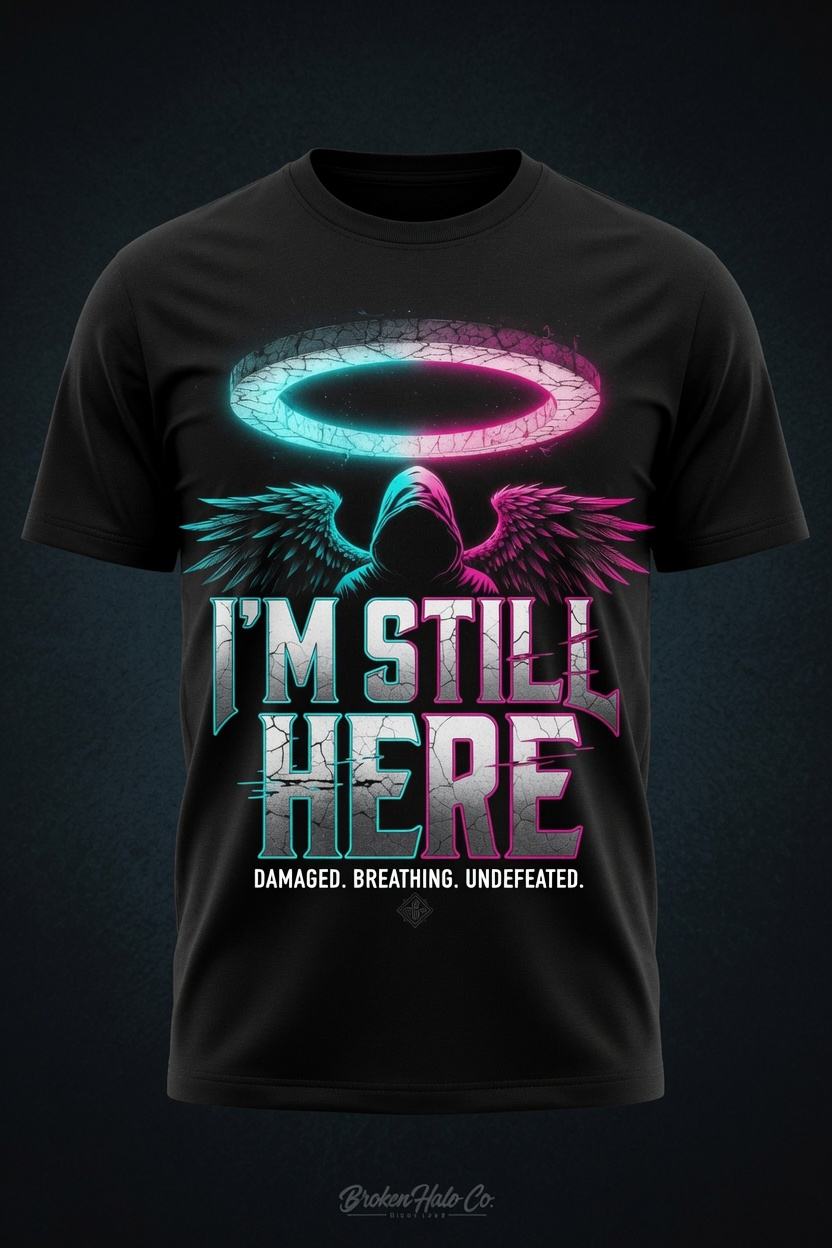
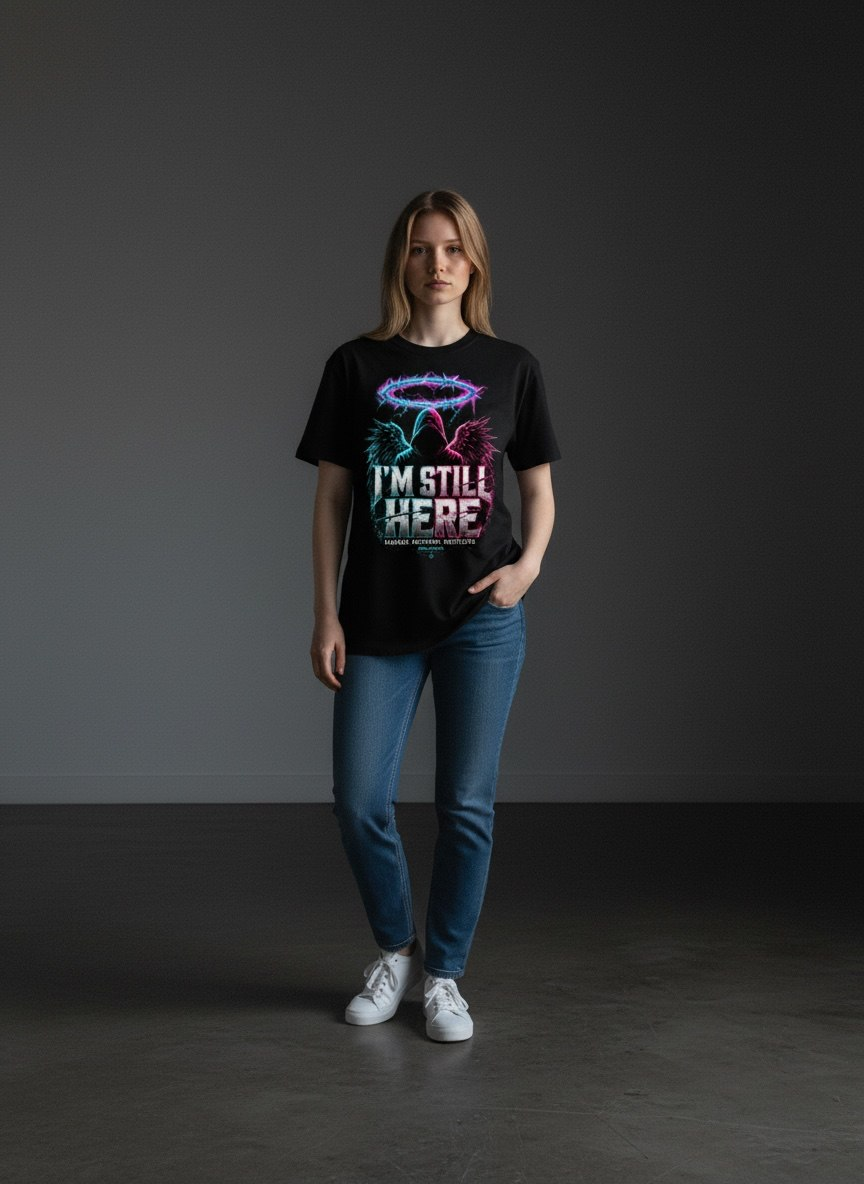
Update book cover (neon web final) and first-drop product photos

diff --git a/index.html b/index.html
@@ -64,7 +64,7 @@
           <div class="mt-7 flex flex-col justify-center gap-3 sm:flex-row lg:justify-start"><a id="heroAmazonCta" href="#" target="_blank" rel="noopener noreferrer" class="amazon-cta hidden inline-flex justify-center bg-[#ff2bbd] px-8 py-4 font-display text-sm font-bold tracking-[.22em] text-black transition hover:bg-white">PREORDER ON AMAZON</a><a href="#tools" class="inline-flex justify-center bg-white px-8 py-4 font-display text-sm font-bold tracking-[.22em] text-black transition hover:bg-[#00f0ff]">GET FREE WORKSHEET</a><a href="#drop" class="inline-flex justify-center border border-[#ff2bbd] px-8 py-4 font-display text-sm font-bold tracking-[.22em] text-[#ff2bbd] transition hover:bg-[#ff2bbd] hover:text-black">SEE FIRST DROP</a></div>
           <div class="mt-8 grid max-w-lg grid-cols-4 gap-2 sm:gap-3 lg:mx-0"><div class="rounded-2xl border border-white/10 bg-black/45 p-3 text-center"><div id="days" class="count-box font-display text-3xl font-bold sm:text-4xl">00</div><div class="mt-1 text-[9px] tracking-[.25em] text-white/40">DAYS</div></div><div class="rounded-2xl border border-white/10 bg-black/45 p-3 text-center"><div id="hours" class="count-box font-display text-3xl font-bold sm:text-4xl">00</div><div class="mt-1 text-[9px] tracking-[.25em] text-white/40">HRS</div></div><div class="rounded-2xl border border-white/10 bg-black/45 p-3 text-center"><div id="minutes" class="count-box font-display text-3xl font-bold sm:text-4xl">00</div><div class="mt-1 text-[9px] tracking-[.25em] text-white/40">MIN</div></div><div class="rounded-2xl border border-white/10 bg-black/45 p-3 text-center"><div id="seconds" class="count-box font-display text-3xl font-bold sm:text-4xl">00</div><div class="mt-1 text-[9px] tracking-[.25em] text-white/40">SEC</div></div></div>
         </div>
-        <div class="mx-auto w-full max-w-md lg:max-w-lg"><div class="relative rounded-[2rem] border border-white/10 bg-zinc-950/80 p-5 shadow-2xl"><div class="absolute -inset-px -z-10 rounded-[2rem] bg-gradient-to-br from-[#00f0ff]/30 via-transparent to-[#ff2bbd]/25 blur-xl"></div><div class="rounded-[1.5rem] border border-white/10 bg-black p-4" id="heroCoverWrap"><img id="heroCoverImage" src="book-cover-front.jpg?v=20260715kdp" alt="Broken But Breathing book cover by Eric Lee Sanders" class="w-full rounded-[1.2rem] border border-white/10 shadow-2xl"/><p id="heroBookPlaceholder" class="mt-4 text-center text-xs tracking-[.18em] text-white/35">AMAZON PREORDER OPENS SOON</p><a id="heroCoverCta" href="#" target="_blank" rel="noopener noreferrer" class="amazon-cta mt-4 hidden w-full justify-center rounded-xl border border-[#ff2bbd] px-4 py-3 font-display text-xs font-bold tracking-[.2em] text-[#ff2bbd] transition hover:bg-[#ff2bbd] hover:text-black inline-flex">PREORDER ON AMAZON</a></div></div></div>
+        <div class="mx-auto w-full max-w-md lg:max-w-lg"><div class="relative rounded-[2rem] border border-white/10 bg-zinc-950/80 p-5 shadow-2xl"><div class="absolute -inset-px -z-10 rounded-[2rem] bg-gradient-to-br from-[#00f0ff]/30 via-transparent to-[#ff2bbd]/25 blur-xl"></div><div class="rounded-[1.5rem] border border-white/10 bg-black p-4" id="heroCoverWrap"><img id="heroCoverImage" src="book-cover-front.jpg?v=20260716neon" alt="Broken But Breathing book cover by Eric Lee Sanders" class="w-full rounded-[1.2rem] border border-white/10 shadow-2xl"/><p id="heroBookPlaceholder" class="mt-4 text-center text-xs tracking-[.18em] text-white/35">AMAZON PREORDER OPENS SOON</p><a id="heroCoverCta" href="#" target="_blank" rel="noopener noreferrer" class="amazon-cta mt-4 hidden w-full justify-center rounded-xl border border-[#ff2bbd] px-4 py-3 font-display text-xs font-bold tracking-[.2em] text-[#ff2bbd] transition hover:bg-[#ff2bbd] hover:text-black inline-flex">PREORDER ON AMAZON</a></div></div></div>
       </div>
     </section>
 
@@ -92,15 +92,15 @@
       </div>
     </section>
 
-    <section id="book" class="reveal px-5 py-20 sm:px-6 md:py-28"><div class="mx-auto grid max-w-6xl gap-12 lg:grid-cols-[.72fr_1.28fr] lg:items-center"><div class="mx-auto max-w-sm rounded-[1.6rem] border border-white/10 bg-black/50 p-3 shadow-2xl lg:mx-0" id="bookCoverWrap"><img id="bookCoverImage" src="book-cover-front.jpg?v=20260715kdp" alt="Broken But Breathing front cover" class="rounded-[1.15rem]" loading="lazy"/></div><div class="space-y-6 text-lg leading-relaxed text-white/70"><div><div class="mb-3 text-xs font-bold tracking-[.3em] text-[#00f0ff]">THE BOOK</div><h2 class="font-display text-5xl font-bold leading-[.92] tracking-[-.07em] sm:text-6xl">A raw memoir about the identity addiction builds.</h2></div><p><strong class="text-white">Broken But Breathing</strong> is not a clean redemption arc. It is a direct look at addiction, shame, relapse, incarceration, leadership, public failure, and the long fight to stop confusing survival patterns with identity.</p><p>The cover hits the same visual world as the brand: cracked halo, glass, cyan/pink damage, and the book title carrying weight before anyone reads page one.</p><div class="grid gap-3 pt-2 sm:grid-cols-2"><div class="rounded-2xl border border-white/10 bg-black/35 p-5"><div class="text-[10px] font-bold tracking-[.28em] text-white/40">ISBN</div><div class="mt-1 font-mono text-sm text-white">979-8-2579-5965-3</div></div><div class="rounded-2xl border border-white/10 bg-black/35 p-5"><div class="text-[10px] font-bold tracking-[.28em] text-white/40">LAUNCH</div><div class="mt-1 font-mono text-sm text-white">July 23, 2026</div></div></div><p id="bookSectionPlaceholder" class="text-sm tracking-[.14em] text-white/40">Amazon preorder link goes live as soon as the listing is up.</p><div class="flex flex-col gap-3 pt-1 sm:flex-row sm:flex-wrap"><a id="bookSectionAmazon" href="#" target="_blank" rel="noopener noreferrer" class="amazon-cta hidden inline-flex w-full justify-center bg-[#ff2bbd] px-8 py-4 font-display text-sm font-bold tracking-[.22em] text-black transition hover:bg-white sm:w-auto">PREORDER ON AMAZON</a><a href="#tools" class="inline-flex w-full justify-center border border-white/70 px-8 py-4 font-display text-sm font-bold tracking-[.22em] text-white transition hover:bg-white hover:text-black sm:w-auto">GET THE FREE WORKSHEET</a></div></div></div></section>
+    <section id="book" class="reveal px-5 py-20 sm:px-6 md:py-28"><div class="mx-auto grid max-w-6xl gap-12 lg:grid-cols-[.72fr_1.28fr] lg:items-center"><div class="mx-auto max-w-sm rounded-[1.6rem] border border-white/10 bg-black/50 p-3 shadow-2xl lg:mx-0" id="bookCoverWrap"><img id="bookCoverImage" src="book-cover-front.jpg?v=20260716neon" alt="Broken But Breathing front cover" class="rounded-[1.15rem]" loading="lazy"/></div><div class="space-y-6 text-lg leading-relaxed text-white/70"><div><div class="mb-3 text-xs font-bold tracking-[.3em] text-[#00f0ff]">THE BOOK</div><h2 class="font-display text-5xl font-bold leading-[.92] tracking-[-.07em] sm:text-6xl">A raw memoir about the identity addiction builds.</h2></div><p><strong class="text-white">Broken But Breathing</strong> is not a clean redemption arc. It is a direct look at addiction, shame, relapse, incarceration, leadership, public failure, and the long fight to stop confusing survival patterns with identity.</p><p>The cover hits the same visual world as the brand: cracked halo, glass, cyan/pink damage, and the book title carrying weight before anyone reads page one.</p><div class="grid gap-3 pt-2 sm:grid-cols-2"><div class="rounded-2xl border border-white/10 bg-black/35 p-5"><div class="text-[10px] font-bold tracking-[.28em] text-white/40">ISBN</div><div class="mt-1 font-mono text-sm text-white">979-8-2579-5965-3</div></div><div class="rounded-2xl border border-white/10 bg-black/35 p-5"><div class="text-[10px] font-bold tracking-[.28em] text-white/40">LAUNCH</div><div class="mt-1 font-mono text-sm text-white">July 23, 2026</div></div></div><p id="bookSectionPlaceholder" class="text-sm tracking-[.14em] text-white/40">Amazon preorder link goes live as soon as the listing is up.</p><div class="flex flex-col gap-3 pt-1 sm:flex-row sm:flex-wrap"><a id="bookSectionAmazon" href="#" target="_blank" rel="noopener noreferrer" class="amazon-cta hidden inline-flex w-full justify-center bg-[#ff2bbd] px-8 py-4 font-display text-sm font-bold tracking-[.22em] text-black transition hover:bg-white sm:w-auto">PREORDER ON AMAZON</a><a href="#tools" class="inline-flex w-full justify-center border border-white/70 px-8 py-4 font-display text-sm font-bold tracking-[.22em] text-white transition hover:bg-white hover:text-black sm:w-auto">GET THE FREE WORKSHEET</a></div></div></div></section>
 
     <section id="drop" class="reveal border-y border-white/10 bg-zinc-950/70 px-5 py-20 sm:px-6 md:py-24"><div class="mx-auto max-w-7xl"><div class="mb-12 text-center"><div class="mb-3 text-xs font-bold tracking-[.3em] text-[#ff2bbd]">DAMAGE WITH DISCIPLINE</div><h2 class="font-display text-5xl font-bold leading-[.92] tracking-[-.07em] sm:text-6xl">First drop: wearable proof.</h2><p class="mx-auto mt-5 max-w-2xl text-base leading-relaxed text-white/60">Not merch just to have merch. These pieces carry the actual Broken Halo language: sober, still here, broken, breathing, dissociated, spite-fueled, and dangerous to the old patterns. Prices shown. Shop opens on Shopify (password until launch unlock).</p><p class="mt-4"><a id="shopFirstDropCta" href="https://shop.thebrokenhaloco.com/collections/first-drop" class="inline-flex border border-[#00f0ff] px-6 py-3 font-display text-xs font-bold tracking-[.22em] text-[#00f0ff] transition hover:bg-[#00f0ff] hover:text-black">SHOP FIRST DROP ON SHOPIFY →</a></p></div><div class="grid gap-5 sm:grid-cols-2 lg:grid-cols-3">
-      <article class="media-card card-hover rounded-[1.7rem] border border-white/10 bg-black/45 p-4" data-shop-key="im-still-here"><div class="mb-5 overflow-hidden rounded-[1.25rem] border border-white/10 bg-[#050507]"><img src="drop-im-still-here.jpg?v=20260625a" alt="I'm Still Here t-shirt mockup by Broken Halo Co." class="aspect-square w-full object-cover" loading="lazy"/></div><div class="px-1 pb-2"><div class="text-[10px] font-bold tracking-[.25em] text-[#00f0ff]">LEAD PIECE</div><h3 class="mt-2 font-display text-3xl font-bold tracking-[-.06em]">I'm Still Here</h3><p class="shop-price mt-2 font-display text-lg font-bold tracking-wide text-[#00f0ff]">$54</p><p class="mt-3 text-sm leading-relaxed text-white/58">Simple, heavy, and hard to argue with. Survival without turning it into a speech.</p><a href="https://shop.thebrokenhaloco.com/products/im-still-here-tee" class="shop-product-link mt-6 inline-flex text-xs font-bold tracking-[.22em] text-[#00f0ff]">SHOP THIS PIECE →</a></div></article>
-      <article class="media-card card-hover rounded-[1.7rem] border border-white/10 bg-black/45 p-4" data-shop-key="broken-but-breathing"><div class="mb-5 overflow-hidden rounded-[1.25rem] border border-white/10 bg-[#050507]"><img src="drop-broken-but-breathing.jpg?v=20260625a" alt="Broken But Breathing t-shirt mockup by Broken Halo Co." class="aspect-square w-full object-cover" loading="lazy"/></div><div class="px-1 pb-2"><div class="text-[10px] font-bold tracking-[.25em] text-white/45">BOOK TIE-IN</div><h3 class="mt-2 font-display text-3xl font-bold tracking-[-.06em]">Broken But Breathing</h3><p class="shop-price mt-2 font-display text-lg font-bold tracking-wide text-[#00f0ff]">$54</p><p class="mt-3 text-sm leading-relaxed text-white/58">The book title as a statement piece. Still broken. Still breathing. Still not done.</p><a href="https://shop.thebrokenhaloco.com/products/broken-but-breathing-tee" class="shop-product-link mt-6 inline-flex text-xs font-bold tracking-[.22em] text-white">SHOP THIS PIECE →</a></div></article>
-      <article class="media-card card-hover rounded-[1.7rem] border border-white/10 bg-black/45 p-4" data-shop-key="sober-not-soft"><div class="mb-5 overflow-hidden rounded-[1.25rem] border border-white/10 bg-[#050507]"><img src="drop-sober-not-soft.jpg?v=20260625a" alt="Sober Not Soft t-shirt mockup by Broken Halo Co." class="aspect-square w-full object-cover" loading="lazy"/></div><div class="px-1 pb-2"><div class="text-[10px] font-bold tracking-[.25em] text-[#ff2bbd]">FIRST DROP</div><h3 class="mt-2 font-display text-3xl font-bold tracking-[-.06em]">Sober Not Soft</h3><p class="shop-price mt-2 font-display text-lg font-bold tracking-wide text-[#00f0ff]">$46</p><p class="mt-3 text-sm leading-relaxed text-white/58">Recovery does not make you fragile. It makes you dangerous to the old patterns that used to run you.</p><a href="https://shop.thebrokenhaloco.com/products/sober-not-soft-tee" class="shop-product-link mt-6 inline-flex text-xs font-bold tracking-[.22em] text-[#ff2bbd]">SHOP THIS PIECE →</a></div></article>
-      <article class="media-card card-hover rounded-[1.7rem] border border-white/10 bg-black/45 p-4" data-shop-key="hope-dealer"><div class="mb-5 overflow-hidden rounded-[1.25rem] border border-white/10 bg-[#050507]"><img src="drop-hope-dealer.jpg?v=20260625a" alt="Hope Dealer t-shirt mockup by Broken Halo Co." class="aspect-square w-full object-cover" loading="lazy"/></div><div class="px-1 pb-2"><div class="text-[10px] font-bold tracking-[.25em] text-[#00f0ff]">LIMITED</div><h3 class="mt-2 font-display text-3xl font-bold tracking-[-.06em]">Hope Dealer</h3><p class="shop-price mt-2 font-display text-lg font-bold tracking-wide text-[#00f0ff]">$46</p><p class="mt-3 text-sm leading-relaxed text-white/58">Dark, loud, and on-brand. Hope without making it soft or corny.</p><a href="https://shop.thebrokenhaloco.com/products/hope-dealer-tee" class="shop-product-link mt-6 inline-flex text-xs font-bold tracking-[.22em] text-[#00f0ff]">SHOP THIS PIECE →</a></div></article>
-      <article class="media-card card-hover rounded-[1.7rem] border border-white/10 bg-black/45 p-4" data-shop-key="dissociated"><div class="mb-5 overflow-hidden rounded-[1.25rem] border border-white/10 bg-[#050507]"><img src="drop-dissociated.jpg?v=20260625a" alt="I Came I Saw I Dissociated t-shirt mockup by Broken Halo Co." class="aspect-square w-full object-cover" loading="lazy"/></div><div class="px-1 pb-2"><div class="text-[10px] font-bold tracking-[.25em] text-[#ff2bbd]">DARK HUMOR</div><h3 class="mt-2 font-display text-3xl font-bold tracking-[-.06em]">I Came. I Saw. I Dissociated.</h3><p class="shop-price mt-2 font-display text-lg font-bold tracking-wide text-[#00f0ff]">$36</p><p class="mt-3 text-sm leading-relaxed text-white/58">Dark humor for the ones who went through it and still know exactly what the room felt like.</p><a href="https://shop.thebrokenhaloco.com/products/i-came-i-saw-i-dissociated-tee" class="shop-product-link mt-6 inline-flex text-xs font-bold tracking-[.22em] text-[#ff2bbd]">SHOP THIS PIECE →</a></div></article>
-      <article class="media-card card-hover rounded-[1.7rem] border border-white/10 bg-black/45 p-4" data-shop-key="powered-by-spite"><div class="mb-5 overflow-hidden rounded-[1.25rem] border border-white/10 bg-[#050507]"><img src="drop-powered-by-spite.jpg?v=20260712b" alt="Powered By Spite design by Broken Halo Co." class="aspect-square w-full object-cover" loading="lazy"/></div><div class="px-1 pb-2"><div class="text-[10px] font-bold tracking-[.25em] text-[#ff2bbd]">DARK FUEL</div><h3 class="mt-2 font-display text-3xl font-bold tracking-[-.06em]">Powered By Spite</h3><p class="shop-price mt-2 font-display text-lg font-bold tracking-wide text-[#00f0ff]">$36</p><p class="mt-3 text-sm leading-relaxed text-white/58">Not positive vibes. Petty, precise, disciplined rage converted into motion — and steered. This is a graphic tee.</p><a href="https://shop.thebrokenhaloco.com/products/powered-by-spite" class="shop-product-link mt-6 inline-flex text-xs font-bold tracking-[.22em] text-[#ff2bbd]">SHOP THIS PIECE →</a></div></article>
+      <article class="media-card card-hover rounded-[1.7rem] border border-white/10 bg-black/45 p-4" data-shop-key="im-still-here"><div class="mb-5 overflow-hidden rounded-[1.25rem] border border-white/10 bg-[#050507]"><img src="drop-im-still-here.jpg?v=20260716" alt="I'm Still Here t-shirt mockup by Broken Halo Co." class="aspect-square w-full object-cover" loading="lazy"/></div><div class="px-1 pb-2"><div class="text-[10px] font-bold tracking-[.25em] text-[#00f0ff]">LEAD PIECE</div><h3 class="mt-2 font-display text-3xl font-bold tracking-[-.06em]">I'm Still Here</h3><p class="shop-price mt-2 font-display text-lg font-bold tracking-wide text-[#00f0ff]">$54</p><p class="mt-3 text-sm leading-relaxed text-white/58">Simple, heavy, and hard to argue with. Survival without turning it into a speech.</p><a href="https://shop.thebrokenhaloco.com/products/im-still-here-tee" class="shop-product-link mt-6 inline-flex text-xs font-bold tracking-[.22em] text-[#00f0ff]">SHOP THIS PIECE →</a></div></article>
+      <article class="media-card card-hover rounded-[1.7rem] border border-white/10 bg-black/45 p-4" data-shop-key="broken-but-breathing"><div class="mb-5 overflow-hidden rounded-[1.25rem] border border-white/10 bg-[#050507]"><img src="drop-broken-but-breathing.jpg?v=20260716" alt="Broken But Breathing t-shirt mockup by Broken Halo Co." class="aspect-square w-full object-cover" loading="lazy"/></div><div class="px-1 pb-2"><div class="text-[10px] font-bold tracking-[.25em] text-white/45">BOOK TIE-IN</div><h3 class="mt-2 font-display text-3xl font-bold tracking-[-.06em]">Broken But Breathing</h3><p class="shop-price mt-2 font-display text-lg font-bold tracking-wide text-[#00f0ff]">$54</p><p class="mt-3 text-sm leading-relaxed text-white/58">The book title as a statement piece. Still broken. Still breathing. Still not done.</p><a href="https://shop.thebrokenhaloco.com/products/broken-but-breathing-tee" class="shop-product-link mt-6 inline-flex text-xs font-bold tracking-[.22em] text-white">SHOP THIS PIECE →</a></div></article>
+      <article class="media-card card-hover rounded-[1.7rem] border border-white/10 bg-black/45 p-4" data-shop-key="sober-not-soft"><div class="mb-5 overflow-hidden rounded-[1.25rem] border border-white/10 bg-[#050507]"><img src="drop-sober-not-soft.jpg?v=20260716" alt="Sober Not Soft t-shirt mockup by Broken Halo Co." class="aspect-square w-full object-cover" loading="lazy"/></div><div class="px-1 pb-2"><div class="text-[10px] font-bold tracking-[.25em] text-[#ff2bbd]">FIRST DROP</div><h3 class="mt-2 font-display text-3xl font-bold tracking-[-.06em]">Sober Not Soft</h3><p class="shop-price mt-2 font-display text-lg font-bold tracking-wide text-[#00f0ff]">$46</p><p class="mt-3 text-sm leading-relaxed text-white/58">Recovery does not make you fragile. It makes you dangerous to the old patterns that used to run you.</p><a href="https://shop.thebrokenhaloco.com/products/sober-not-soft-tee" class="shop-product-link mt-6 inline-flex text-xs font-bold tracking-[.22em] text-[#ff2bbd]">SHOP THIS PIECE →</a></div></article>
+      <article class="media-card card-hover rounded-[1.7rem] border border-white/10 bg-black/45 p-4" data-shop-key="hope-dealer"><div class="mb-5 overflow-hidden rounded-[1.25rem] border border-white/10 bg-[#050507]"><img src="drop-hope-dealer.jpg?v=20260716" alt="Hope Dealer t-shirt mockup by Broken Halo Co." class="aspect-square w-full object-cover" loading="lazy"/></div><div class="px-1 pb-2"><div class="text-[10px] font-bold tracking-[.25em] text-[#00f0ff]">LIMITED</div><h3 class="mt-2 font-display text-3xl font-bold tracking-[-.06em]">Hope Dealer</h3><p class="shop-price mt-2 font-display text-lg font-bold tracking-wide text-[#00f0ff]">$46</p><p class="mt-3 text-sm leading-relaxed text-white/58">Dark, loud, and on-brand. Hope without making it soft or corny.</p><a href="https://shop.thebrokenhaloco.com/products/hope-dealer-tee" class="shop-product-link mt-6 inline-flex text-xs font-bold tracking-[.22em] text-[#00f0ff]">SHOP THIS PIECE →</a></div></article>
+      <article class="media-card card-hover rounded-[1.7rem] border border-white/10 bg-black/45 p-4" data-shop-key="dissociated"><div class="mb-5 overflow-hidden rounded-[1.25rem] border border-white/10 bg-[#050507]"><img src="drop-dissociated.jpg?v=20260716" alt="I Came I Saw I Dissociated t-shirt mockup by Broken Halo Co." class="aspect-square w-full object-cover" loading="lazy"/></div><div class="px-1 pb-2"><div class="text-[10px] font-bold tracking-[.25em] text-[#ff2bbd]">DARK HUMOR</div><h3 class="mt-2 font-display text-3xl font-bold tracking-[-.06em]">I Came. I Saw. I Dissociated.</h3><p class="shop-price mt-2 font-display text-lg font-bold tracking-wide text-[#00f0ff]">$36</p><p class="mt-3 text-sm leading-relaxed text-white/58">Dark humor for the ones who went through it and still know exactly what the room felt like.</p><a href="https://shop.thebrokenhaloco.com/products/i-came-i-saw-i-dissociated-tee" class="shop-product-link mt-6 inline-flex text-xs font-bold tracking-[.22em] text-[#ff2bbd]">SHOP THIS PIECE →</a></div></article>
+      <article class="media-card card-hover rounded-[1.7rem] border border-white/10 bg-black/45 p-4" data-shop-key="powered-by-spite"><div class="mb-5 overflow-hidden rounded-[1.25rem] border border-white/10 bg-[#050507]"><img src="drop-powered-by-spite.jpg?v=20260716" alt="Powered By Spite design by Broken Halo Co." class="aspect-square w-full object-cover" loading="lazy"/></div><div class="px-1 pb-2"><div class="text-[10px] font-bold tracking-[.25em] text-[#ff2bbd]">DARK FUEL</div><h3 class="mt-2 font-display text-3xl font-bold tracking-[-.06em]">Powered By Spite</h3><p class="shop-price mt-2 font-display text-lg font-bold tracking-wide text-[#00f0ff]">$36</p><p class="mt-3 text-sm leading-relaxed text-white/58">Not positive vibes. Petty, precise, disciplined rage converted into motion — and steered. This is a graphic tee.</p><a href="https://shop.thebrokenhaloco.com/products/powered-by-spite" class="shop-product-link mt-6 inline-flex text-xs font-bold tracking-[.22em] text-[#ff2bbd]">SHOP THIS PIECE →</a></div></article>
     </div><p class="mt-10 text-center text-sm text-white/45">Also on Shopify: matching <a class="text-[#00f0ff] hover:underline" href="https://shop.thebrokenhaloco.com/collections/hoodies">hoodies</a> · <a class="text-[#00f0ff] hover:underline" href="#tools">Join the drop list</a> for launch alerts.</p></div></section>
 
     <section id="tools" class="reveal px-5 py-20 sm:px-6 md:py-28">
